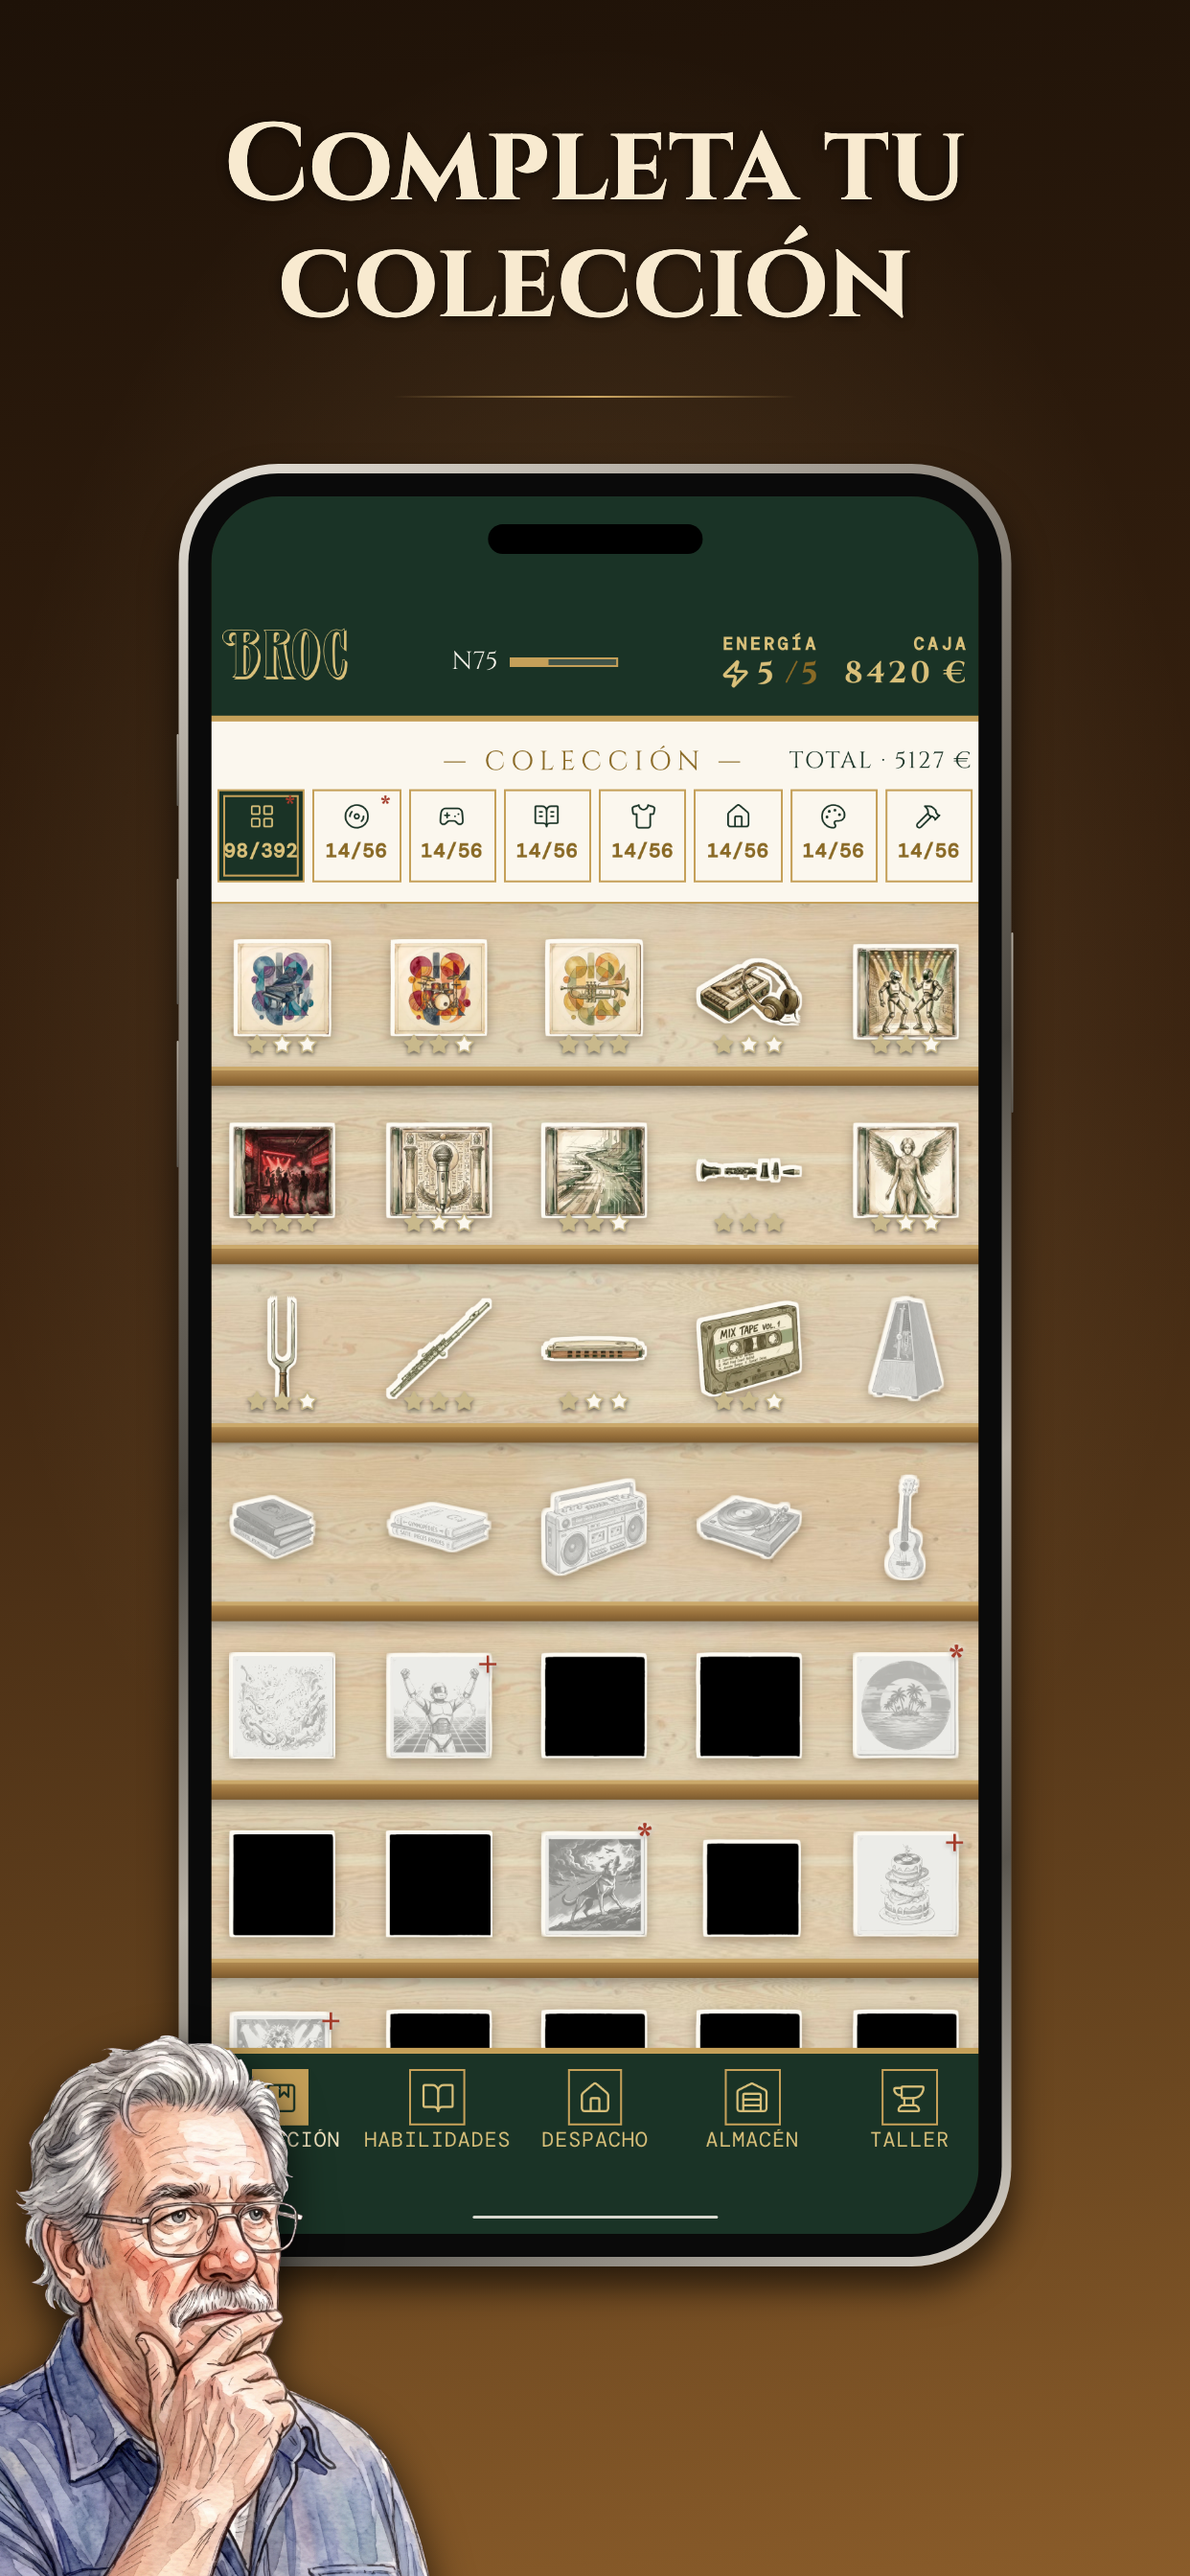
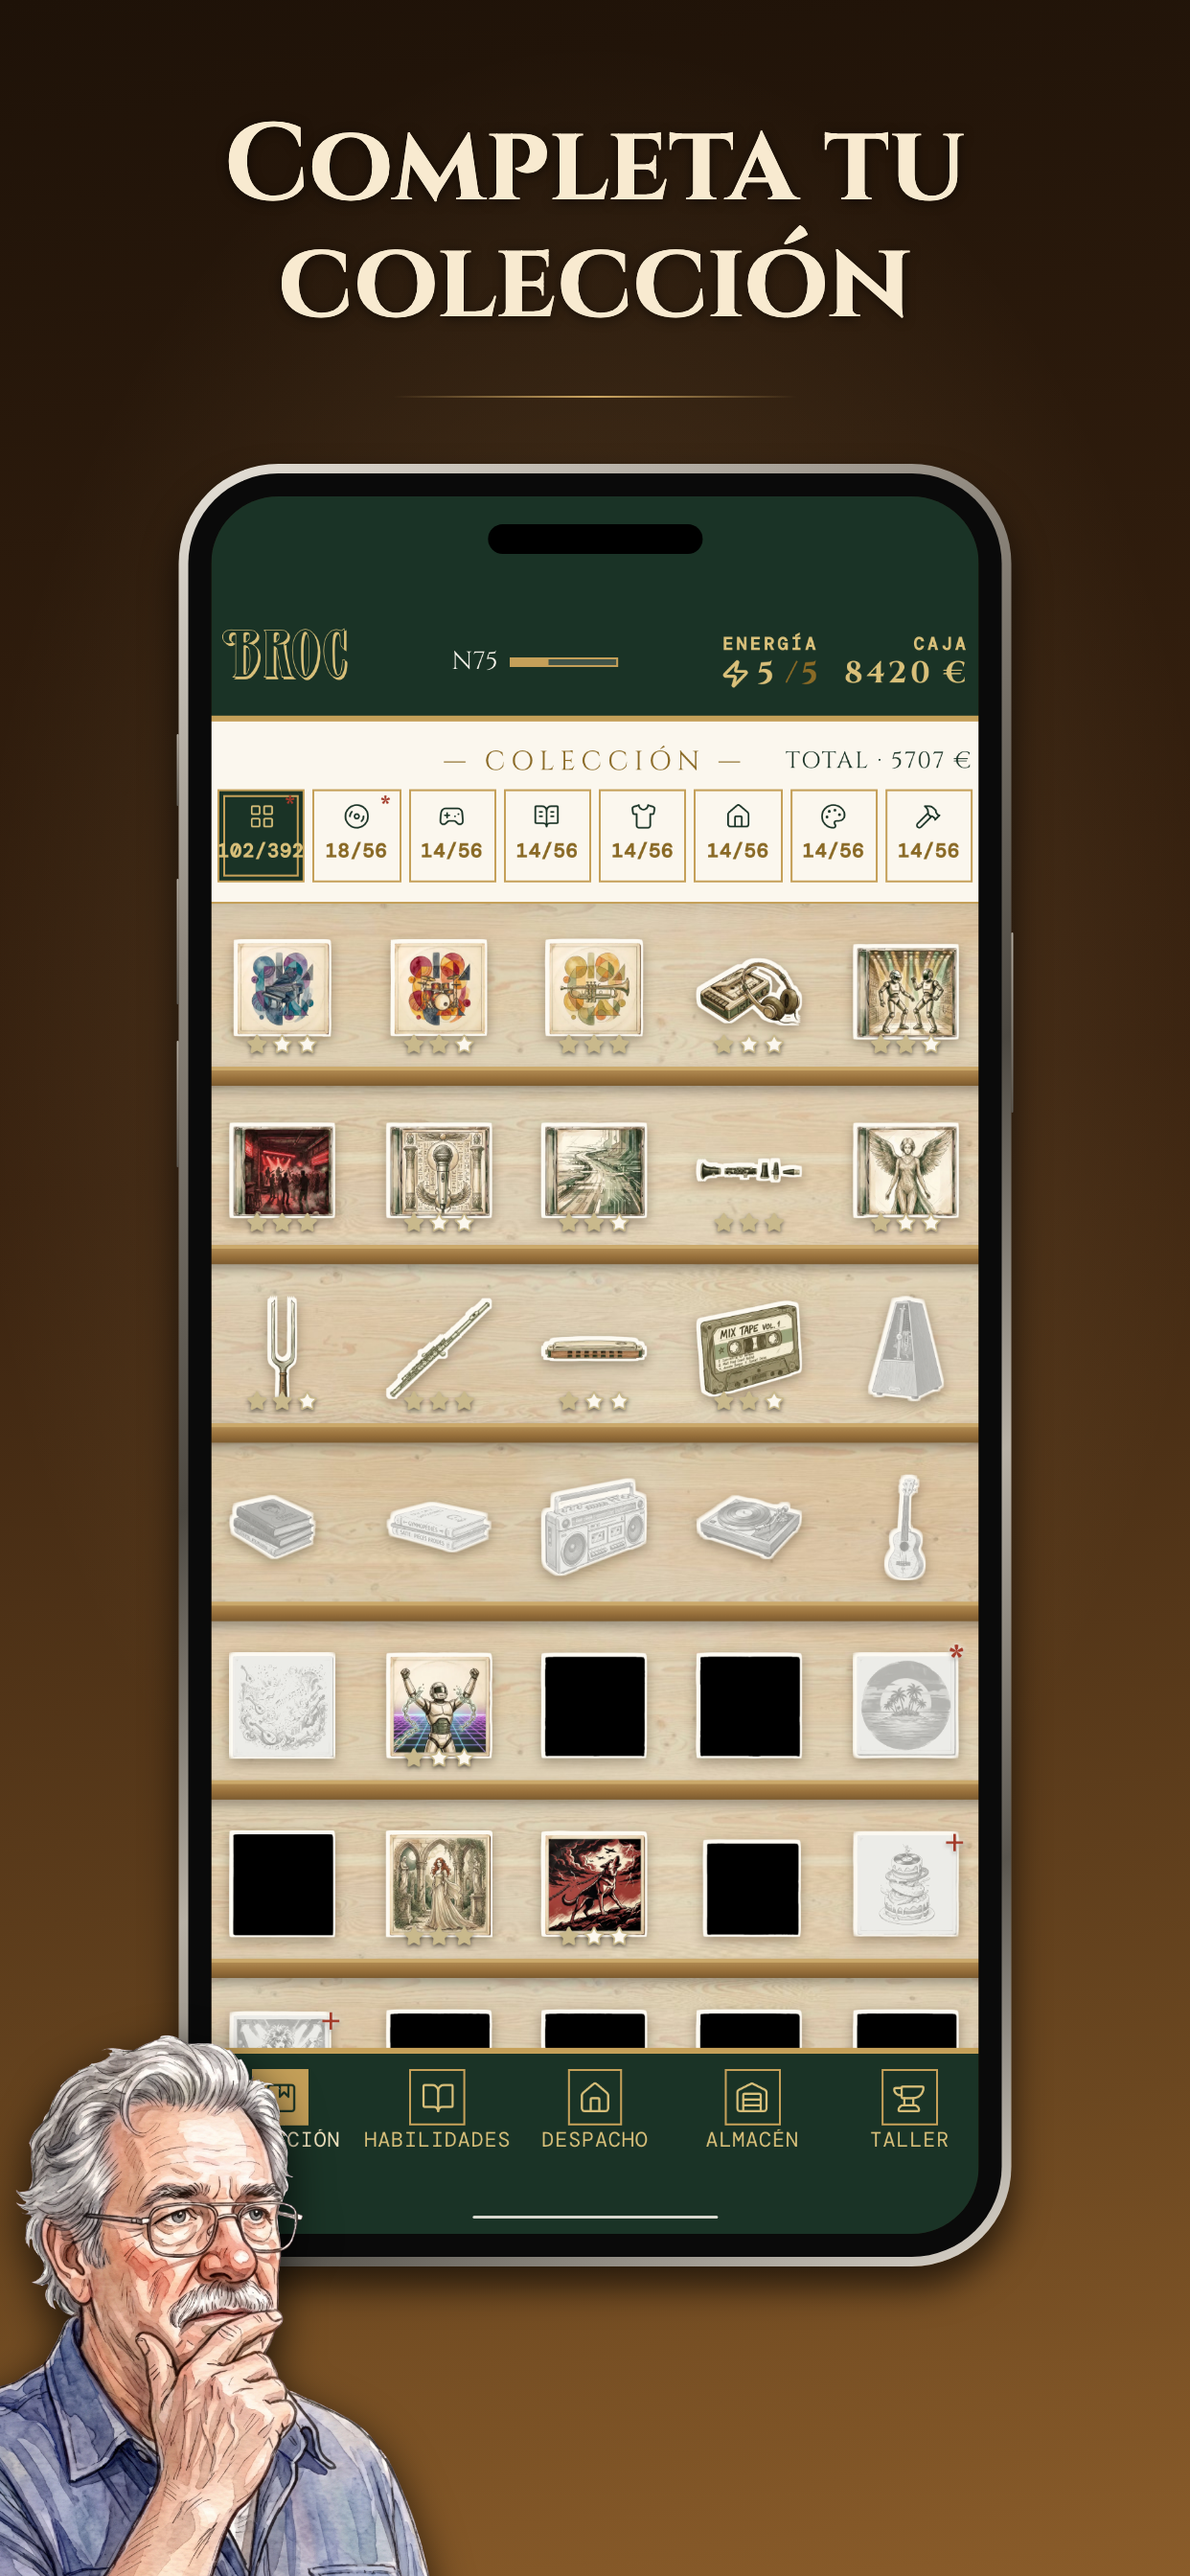
feat(appstore): sixieme visuel (gramophone), etal sans acheteur, titres raccourcis
Ajoute « 24 musiques a decouvrir » : le gramophone du bureau ouvre la
discotheque des vinyles possedes, et met en avant les 24 morceaux
originaux du jeu — un argument que la fiche ne mentionnait nulle part.
Le gramophone ne joue que les disques reellement possedes : la save de
demo n'en avait que trois, quatre de plus sont credites.

Le visuel « Vendre » ne montre plus une negociation qui recouvrait a
moitie l'etal, mais le stand ouvert avec ses objets et leurs prix. La
capture attend les vignettes d'objets au lieu d'un acheteur, et se
declenche avant l'arrivee du premier client (delai reglable par visuel).

Titres raccourcis a deux lignes, conformement a la regle de conception :
« 24 musiques a decouvrir » et « 31 personnages a rencontrer ».

Le libelle accessible du gramophone est garde par un test contre les
fichiers i18n, comme « Negocier » et « Suivant ». La serie passe de 40 a
48 images ; la galerie des personnages est desormais le sixieme visuel.

Changed region(s): [[0.306, 0.625, 0.4283, 0.7812], [0.4589, 0.6875, 0.5507, 0.7812], [0.1836, 0.3125, 0.2448, 0.3438]]

diff --git a/scripts/gen-save-demo.ts b/scripts/gen-save-demo.ts
@@ -98,6 +98,15 @@ function objetDe(id: string, etat: EtatObjet, idx: number): Objet {
 // Templates forcés à « vu » : la pastille « Nouveau » du chinage déborde de
 // l'écran quand le nom tient sur deux lignes (cf. visuels App Store).
 const DEJA_VUS = new Set(["leg.lv.gutenberg_feuillet"]);
+// Vinyles forcés dans la collection : le gramophone du bureau ne joue que les
+// disques POSSÉDÉS (donation non nulle). Sans eux la discothèque n'affiche
+// que trois pochettes, ce qui vend mal les 24 morceaux originaux du jeu.
+const DONS_FORCES = new Set([
+  "mus.vinyle_des_loups_des_steppes_bark_to_be_free",
+  "mus.vinyle_free_robot_des_punkbot",
+  "mus.vinyle_collector_de_vagabond_horizon_celeste",
+  "mus.vinyle_de_la_rousse_mystique_ainsi_soit_elle",
+]);
 const ETATS_DEMO: EtatObjet[] = ["Bon", "Très bon", "Pristin état"];
 const collection = initCollection();
 for (const cat of Object.keys(collection) as CategorieObjet[]) {
@@ -105,7 +114,7 @@ for (const cat of Object.keys(collection) as CategorieObjet[]) {
   const nDonnes = Math.round(slots.length * 0.25);
   const nVus = Math.round(slots.length * 0.12); // frange grisée en plus
   collection[cat] = slots.map((s, i): CollectionSlot => {
-    if (i < nDonnes) {
+    if (i < nDonnes || DONS_FORCES.has(s.templateId)) {
       const etat = ETATS_DEMO[i % ETATS_DEMO.length];
       const valeurBase = valeurRef(s.templateId);
       const prime = etat === "Pristin état" ? 1.6 : etat === "Très bon" ? 1.3 : 1;
